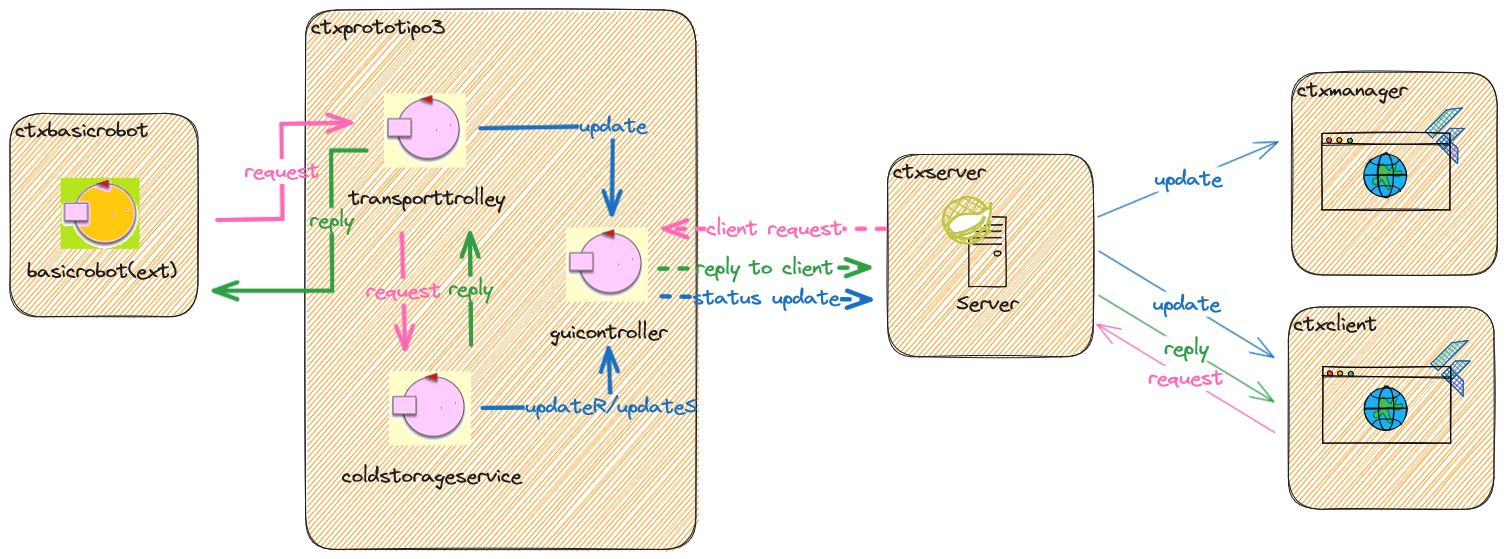
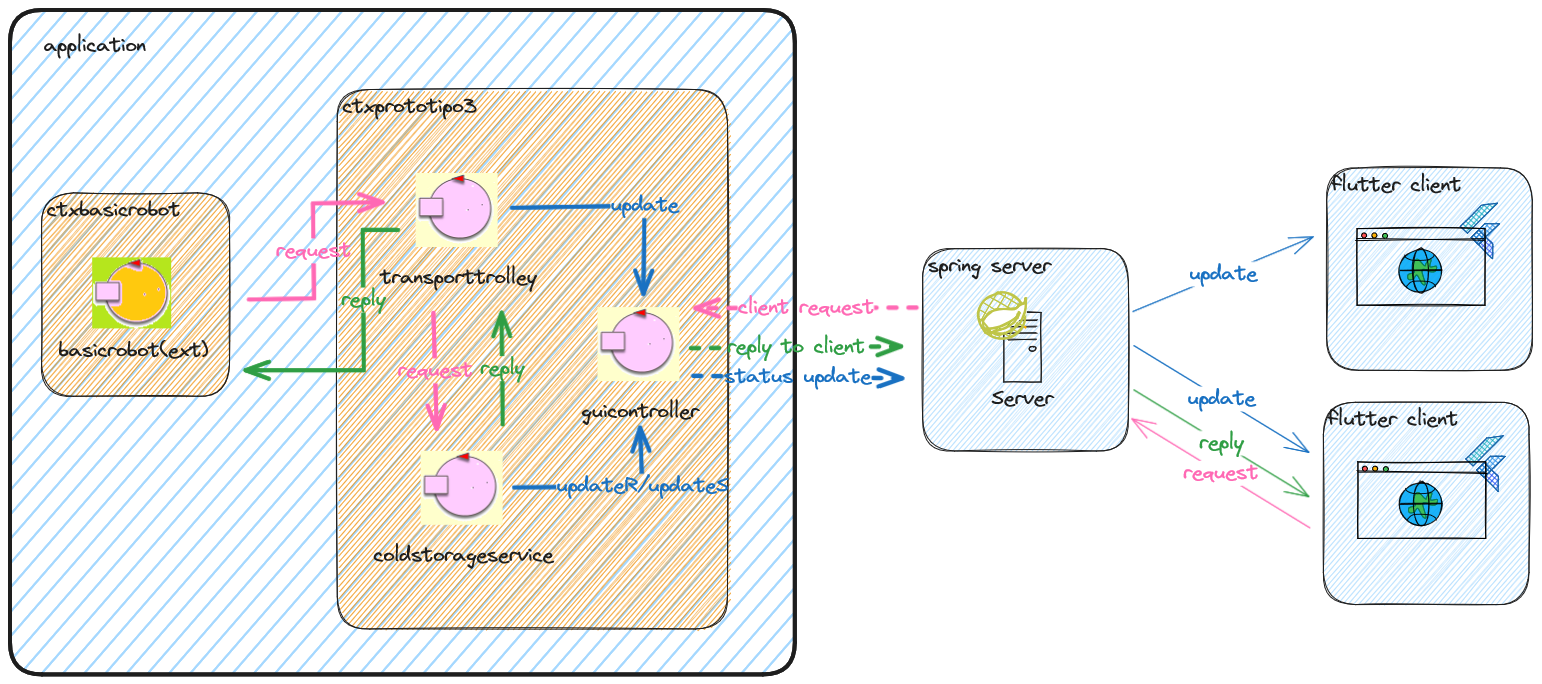
Updata fix sprint3.html

diff --git a/Sprint3/userDocs/sprint3.html b/Sprint3/userDocs/sprint3.html
@@ -161,14 +161,15 @@
 
     <h2>Architettura Logica</h2>
     <div class="remark">
-        Di seguito si riporta l'architettura logica relativa al <a style="font-size: larger" href="https://github.com/LEOB3TA/ColdStorageService-Project/blob/main/Sprint3/unibo.prototipo3/src/prototipo3.qak" target="_blank">protipo3.qak</a>. <br>
-        <figure>
-            <img height="100%" width="100%" src="./resources/images/prototipo3arch.png" alt="architettura logica"> <br>
-            <figcaption>
-                Nota: nella figura precedente sono stati rimossi gli attori relativi al sonar per ottenere una figura compatta
-            </figcaption>
-        </figure>
-        Di seguito viene riportata l'architettura contenete informazioni relative a tutti i componenti in gioco.
+<!--        Di seguito si riporta l'architettura logica relativa al <a style="font-size: larger" href="https://github.com/LEOB3TA/ColdStorageService-Project/blob/main/Sprint3/unibo.prototipo3/src/prototipo3.qak" target="_blank">protipo3.qak</a>. <br>-->
+<!--        <figure>-->
+<!--            <img height="100%" width="100%" src="./resources/images/prototipo3arch.png" alt="architettura logica"> <br>-->
+<!--            <figcaption>-->
+<!--                Nota: nella figura precedente sono stati rimossi gli attori relativi al sonar per ottenere una figura compatta-->
+<!--            </figcaption>-->
+<!--        </figure>-->
+        Siccome l'architettura dell'applicazione &egrave; rimasta inalterata, a meno dell'inserimento del componente <kc>guicontroller</kc>, viene riportata
+        un'architettura che mostra le interazioni tra le varie parti in gioco.
         <img height="100%" width="100%" src="./resources/images/iss.png" alt="architettura logica"> <br>
         Nella precedente figura sono stati appositamente omessi alcuni dettagli, in quanto il focus principale &egrave; relativo al comportamento
         d'insieme dei vari componenti e di come le varie connessioni interagiscano
@@ -176,6 +177,27 @@
 
 
     <h2>Project</h2>
+    <div class="remark">
+        <h4>Perch&egrave; Fluetter e Spring?</h4>
+        <div id="pf">
+             Flutter &egrave; un framework usato per la creazione di interfacce native per vari sistemi operativi: Linux, MacOs e Windows sono alcuni
+            di questi. Sfrutta il linguaggio Dart ed &egrave; vastamente usato per la creazione di interfacce.
+            La scelta &egrave; ricaduta su questo framework per la realizzazione delle nostre interfacce per due motivi:
+            <ol>
+                <li>Facilit&agrave; nella creazione di interfacce per pi&ugrave; ambienti</li>
+                <li>Semplicit&agrave; nella realizzazione di un prodotto pi&ugrave; completo anche a livello estetico </li>
+            </ol>
+            Siccome Flutter si appoggia ad un linguaggio completo come Dart si sarebbe potuto pensare di realizzare la parte in spring usando flutter, difatto
+            realizzando un'applicazione serverless. Il principale dubbio relativo a tale approccio deriva dalla relativa giovinezza del framework. Infatti
+            siccome si necessita di usare connessioni CoAP per far funzionare l'observer, e l'implementazione di meccanismi in grado di gestire tali connessioni in
+            dart sono ancora ad uno stato embrionale, abbiamo preferito avere un approccio pi&ugrave; tradizionale.
+            <br>
+            In sostanza Flutter viene usato solo per la realizzazione della parte grafica, mentre le comunicazioni con l'applicazione (qak), vengono gestite
+            dal server Spring.
+            <br>
+            Tale approccio viene rappresentato nella figura sopra riportata.
+        </div>
+    </div>
     <div class="remark">
         <h3>guicontroller</h3>
             <div>

diff --git a/README.md b/README.md
@@ -12,7 +12,7 @@ Group project for the university course "Ingegneria dei sistemi software" Prof. 
 | [Sprint0](https://htmlpreview.github.io/?https://github.com/LEOB3TA/ColdStorageService-Project/blob/main/Sprint0Reviewed/userDocs/sprint0Reviewed.html) | esplicitare la natura (POJO / servzi / attori …) dei (macro)componenti del sistema e sulle interazioni tra questi che sono esplicitamente definite o deducibili dal testo dei requisiti, creare una lista di priorità dei requisiti, ponendo al primo posto quelli che coprono il core-business, delineare una prima ipotesi di sprint e una prima valutazione dei tempi previsti per ogni sprint, definire il goal dello sprint1 e creare un nuovo progetto per lo sprint1 |                                                                                                                                    |
 | [Sprint1](https://htmlpreview.github.io/?https://github.com/LEOB3TA/ColdStorageService-Project/blob/main/Sprint1/userDocs/sprint1.html)                | Core business dell'applicazione: <ul> <li>Transport trolley e interfacciamento con il basic robot (Gianmiriano Porrazzo)</li><li>Cold storage service (Christian Galeone)</li><li>Simulatore dei driver (Leonardo Focardi)</li></ul>                                                                                                                                                                                                                                        |                                                                                                                                    |
 | [Sprint2](https://htmlpreview.github.io/?https://github.com/LEOB3TA/ColdStorageService-Project/blob/main/Sprint2Reviewed/userDocs/sprint2.html)        | Implementazione uso  Sonar e Led                                                                                                                                                                                                                                                                                                                                                                                                                                            |  |
-| [Sprint3](https://htmlpreview.github.io/?https://github.com/LEOB3TA/ColdStorageService-Project/blob/main/Sprint3/userDocs/sprint3.html)                | Creazione GUI                                                                                                                                                                                                                                                                                                                                                                                                                                                               |                                                                                |
+| [Sprint3](https://htmlpreview.github.io/?https://github.com/LEOB3TA/ColdStorageService-Project/blob/main/Sprint3/userDocs/sprint3.html)                | Creazione GUI (updated)                                                                                                                                                                                                                                                                                                                                                                                                                                                     |                                                                                |
 | [Sprint4](https://htmlpreview.github.io/?https://github.com/LEOB3TA/ColdStorageService-Project/blob/main/Sprint4/userDocs/sprint4.html)            | Deploy                                                                                                                                                                                                                                                                                                                                                                                                                                                                      |                                                                                |
 
 # How to install
